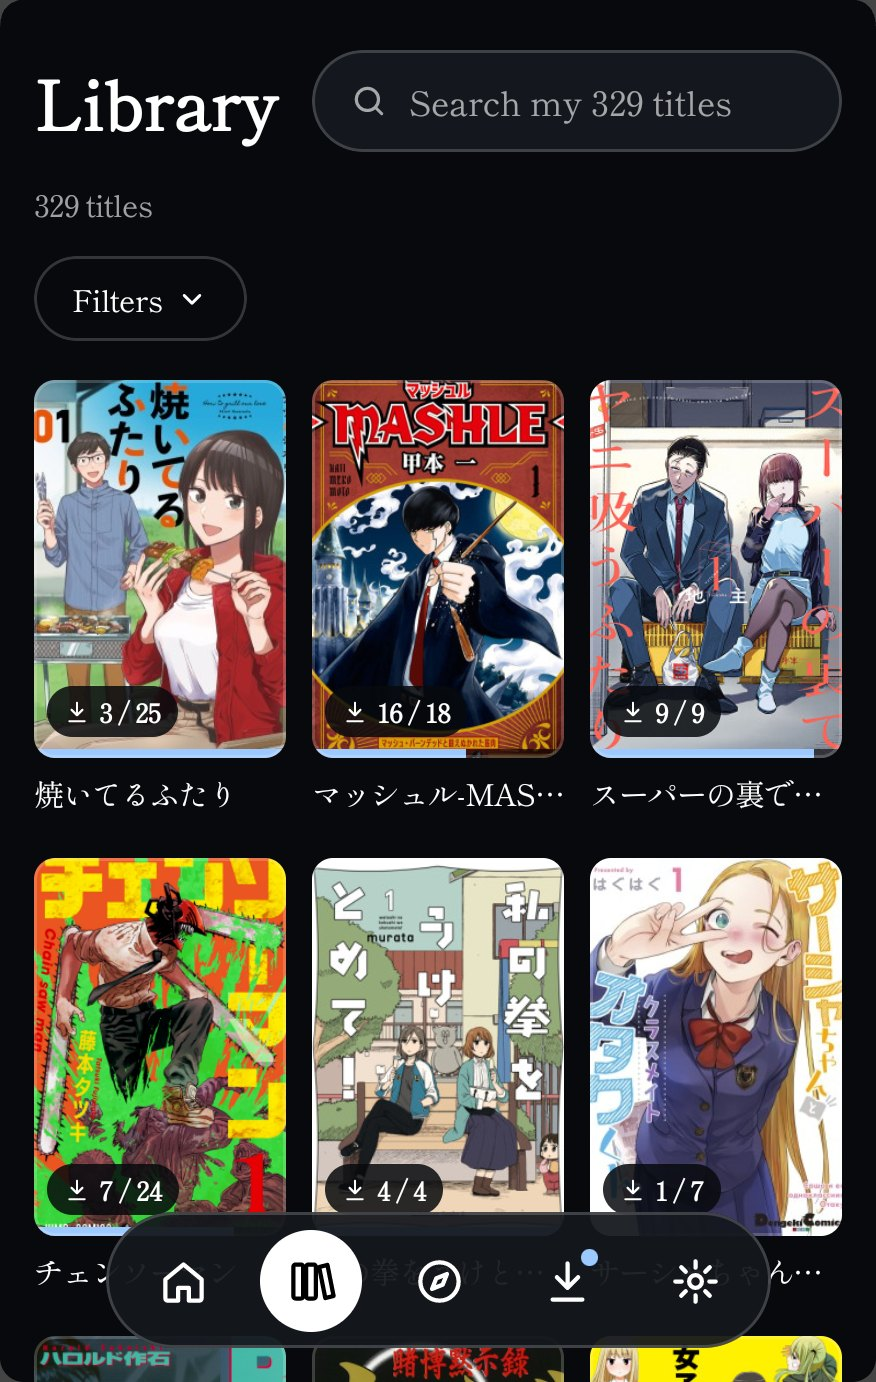
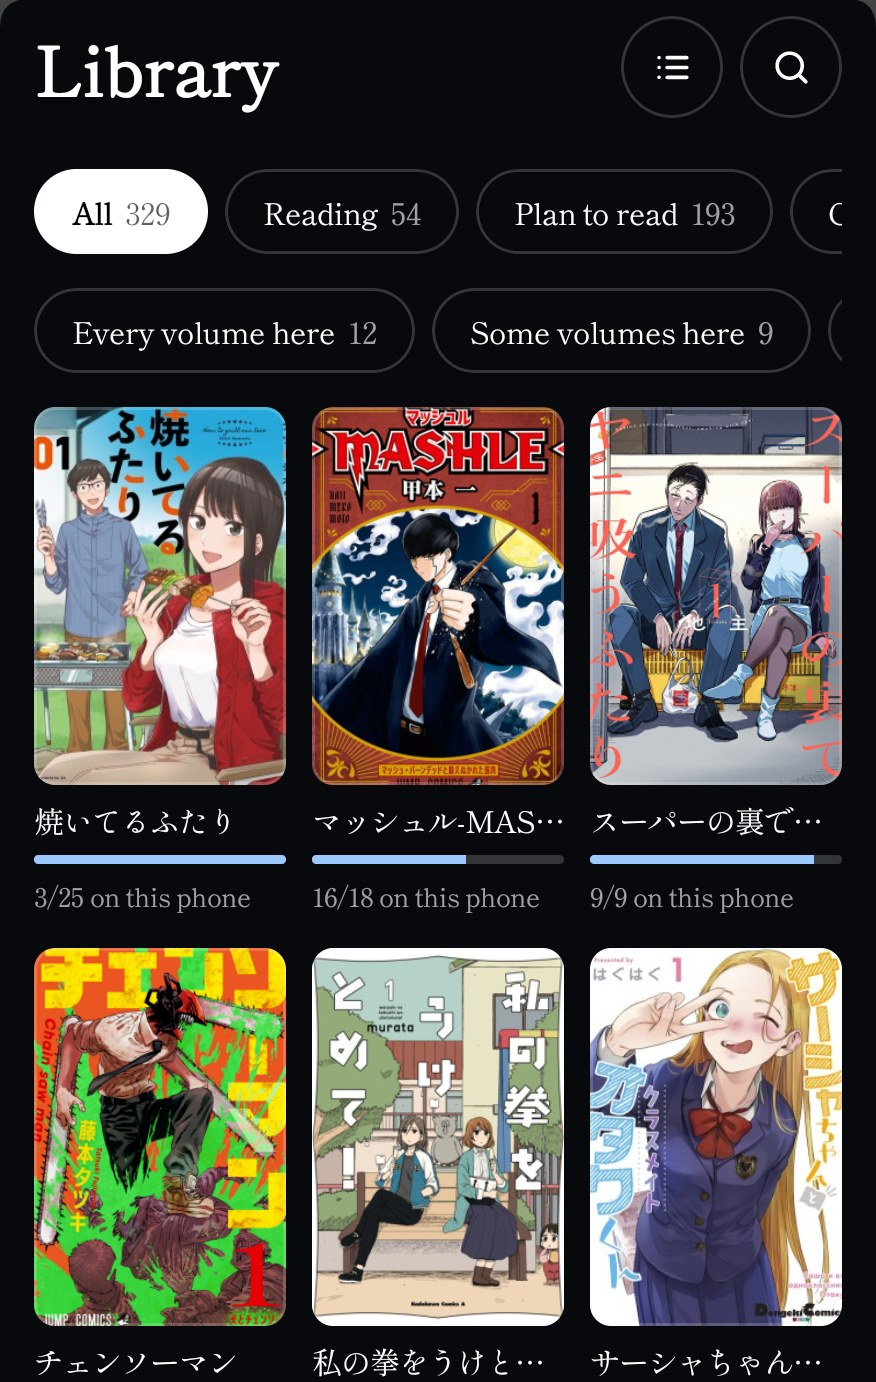
README: Library, title pages and Settings on phones (release 1.2.3)

diff --git a/README.md b/README.md
@@ -72,7 +72,7 @@ Three ways to find what to read next, based on what you finished:
   <img src="./.github/readme-images/glass/torrent.jpg" alt="Download as a torrent: the torrents that hold the volume, with their size and how many people share them" width="24%" />
 </p>
 
-- **Phones** (optional, still in progress): Home and Discover are made for phones; Library, Downloads and title pages are the tablet ones made narrow. Turn it on in Settings › Appearance.
+- **Phones** (optional, still in progress): Home, Discover, Library, title pages and Settings are made for phones; Downloads is the tablet one made narrow. Turn it on in Settings › Appearance.
 - **Download by hand**, without Real-Debrid: the app lists which file of which source holds the volume, opens the hoster's page in your browser, and imports the file you downloaded. A hoster that is quick without an account is suggested first, and dead links are checked before you wait for nothing.
 - **Torrents on the device**, without Real-Debrid: a Nyaa torrent is downloaded by the app's own engine. Before it starts, the app opens the torrent and shows what it will download and how big it is, and only the files of the volumes you asked for are fetched. The people sharing a torrent can see your IP address while it runs; the app says so first.
 - A file that holds **chapters instead of volumes** is refused and nothing is added. Files whose name suggests that are flagged and offered last.
